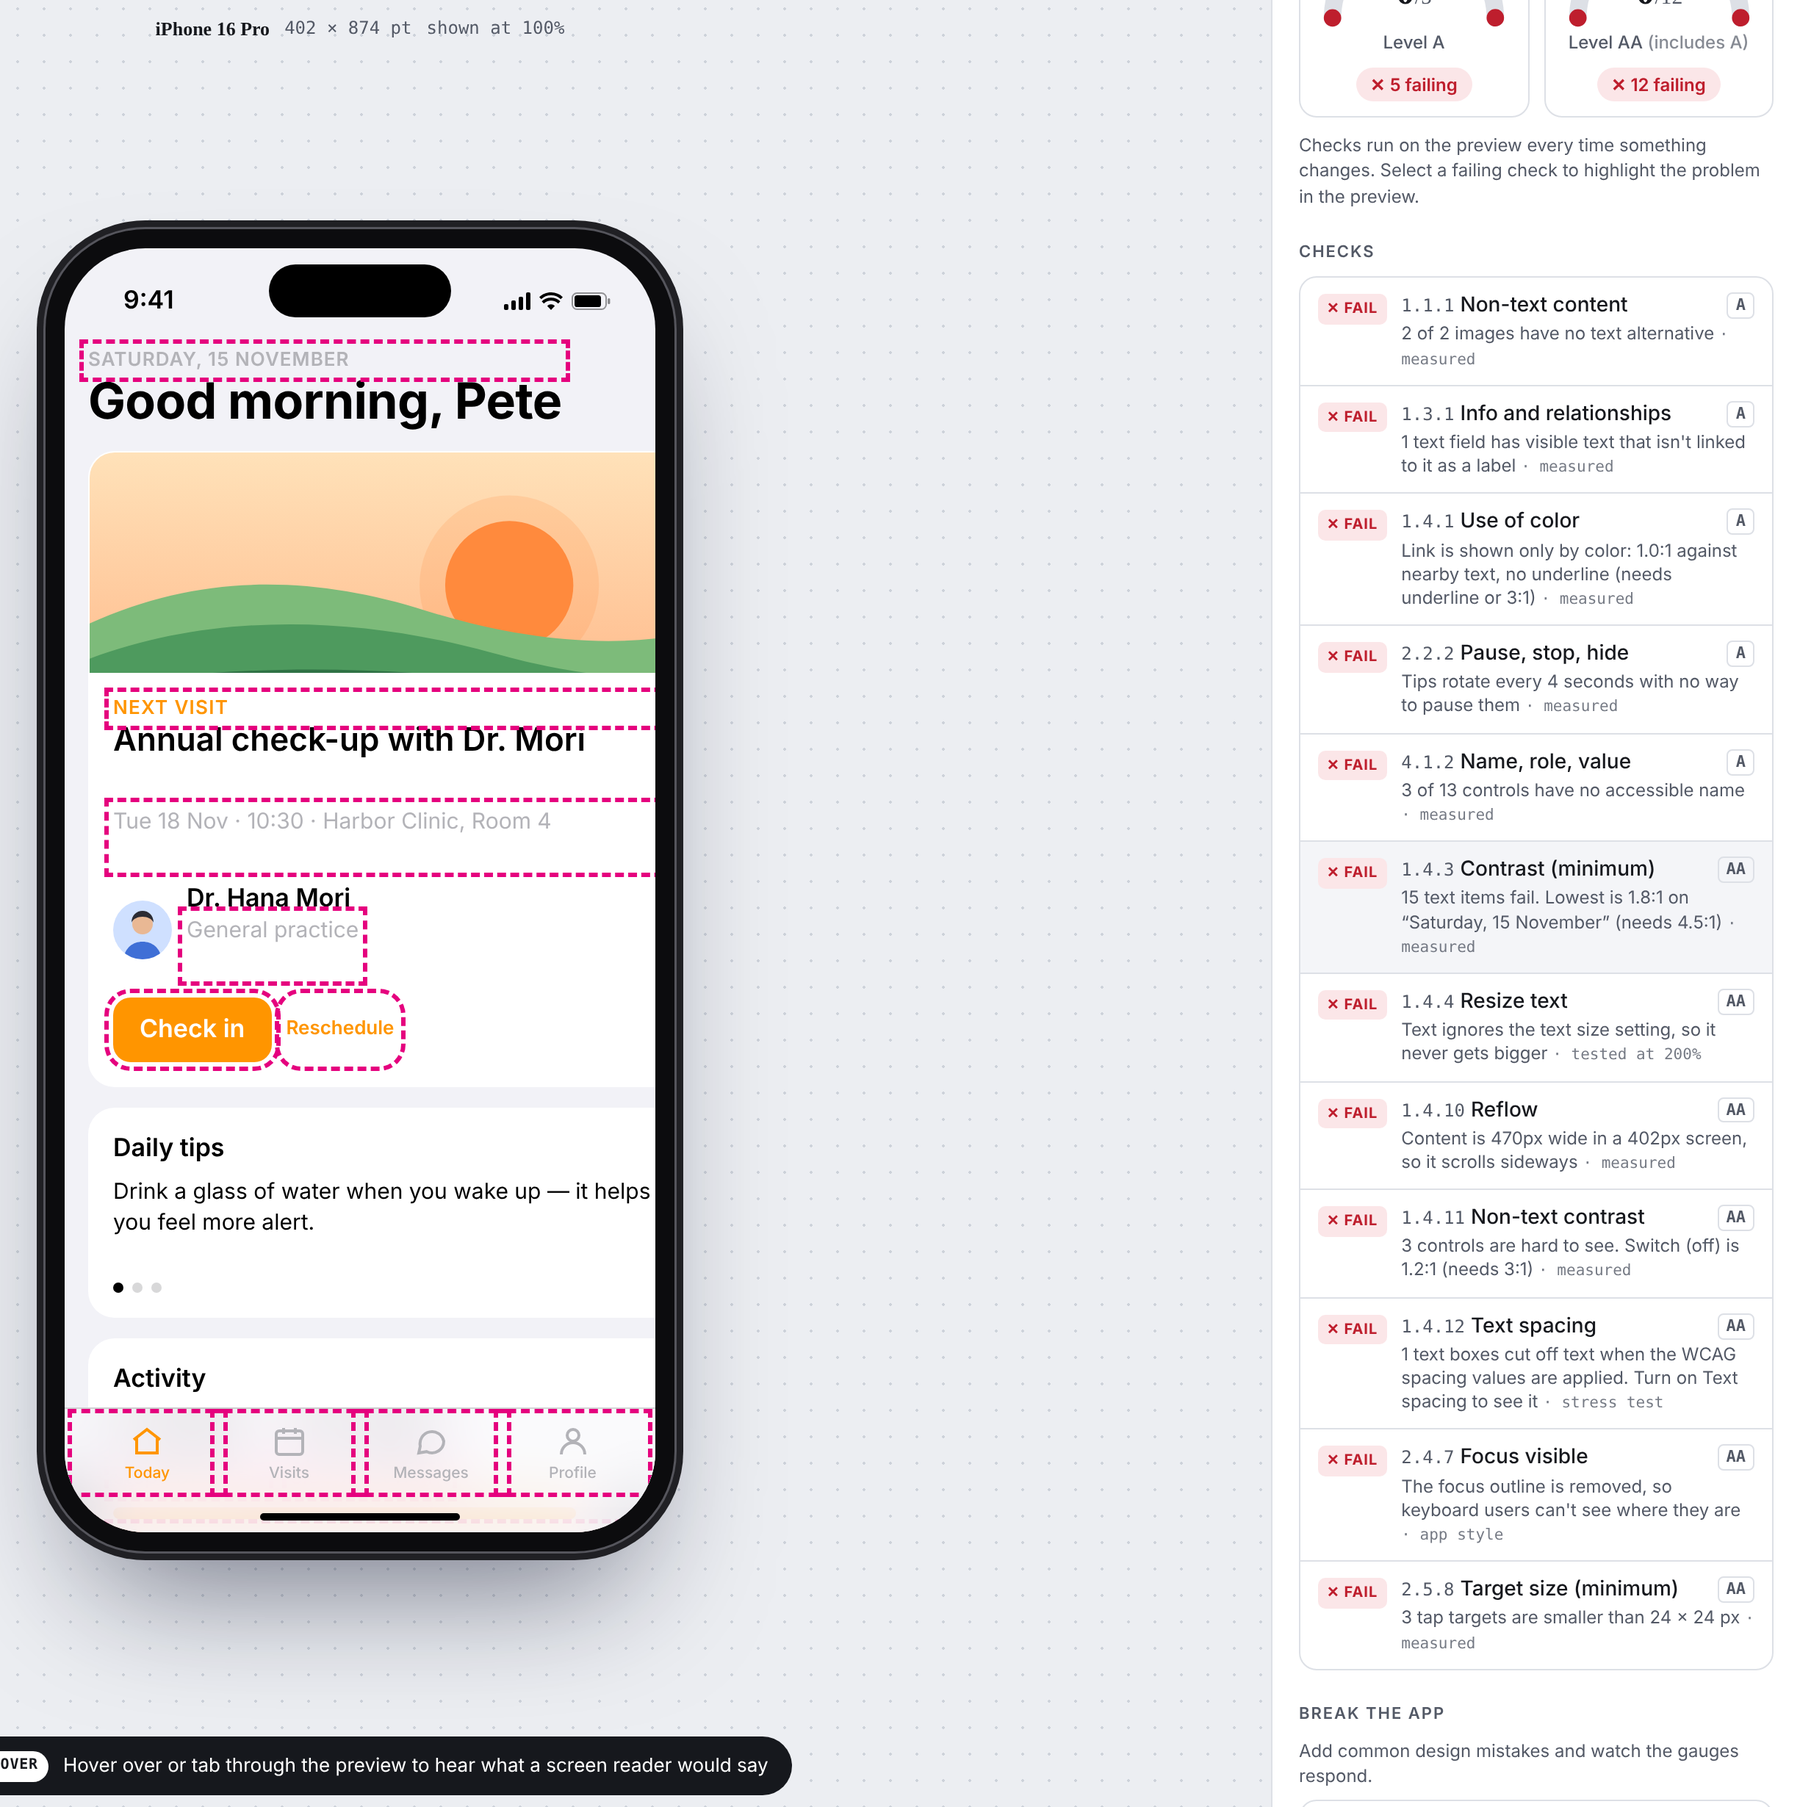
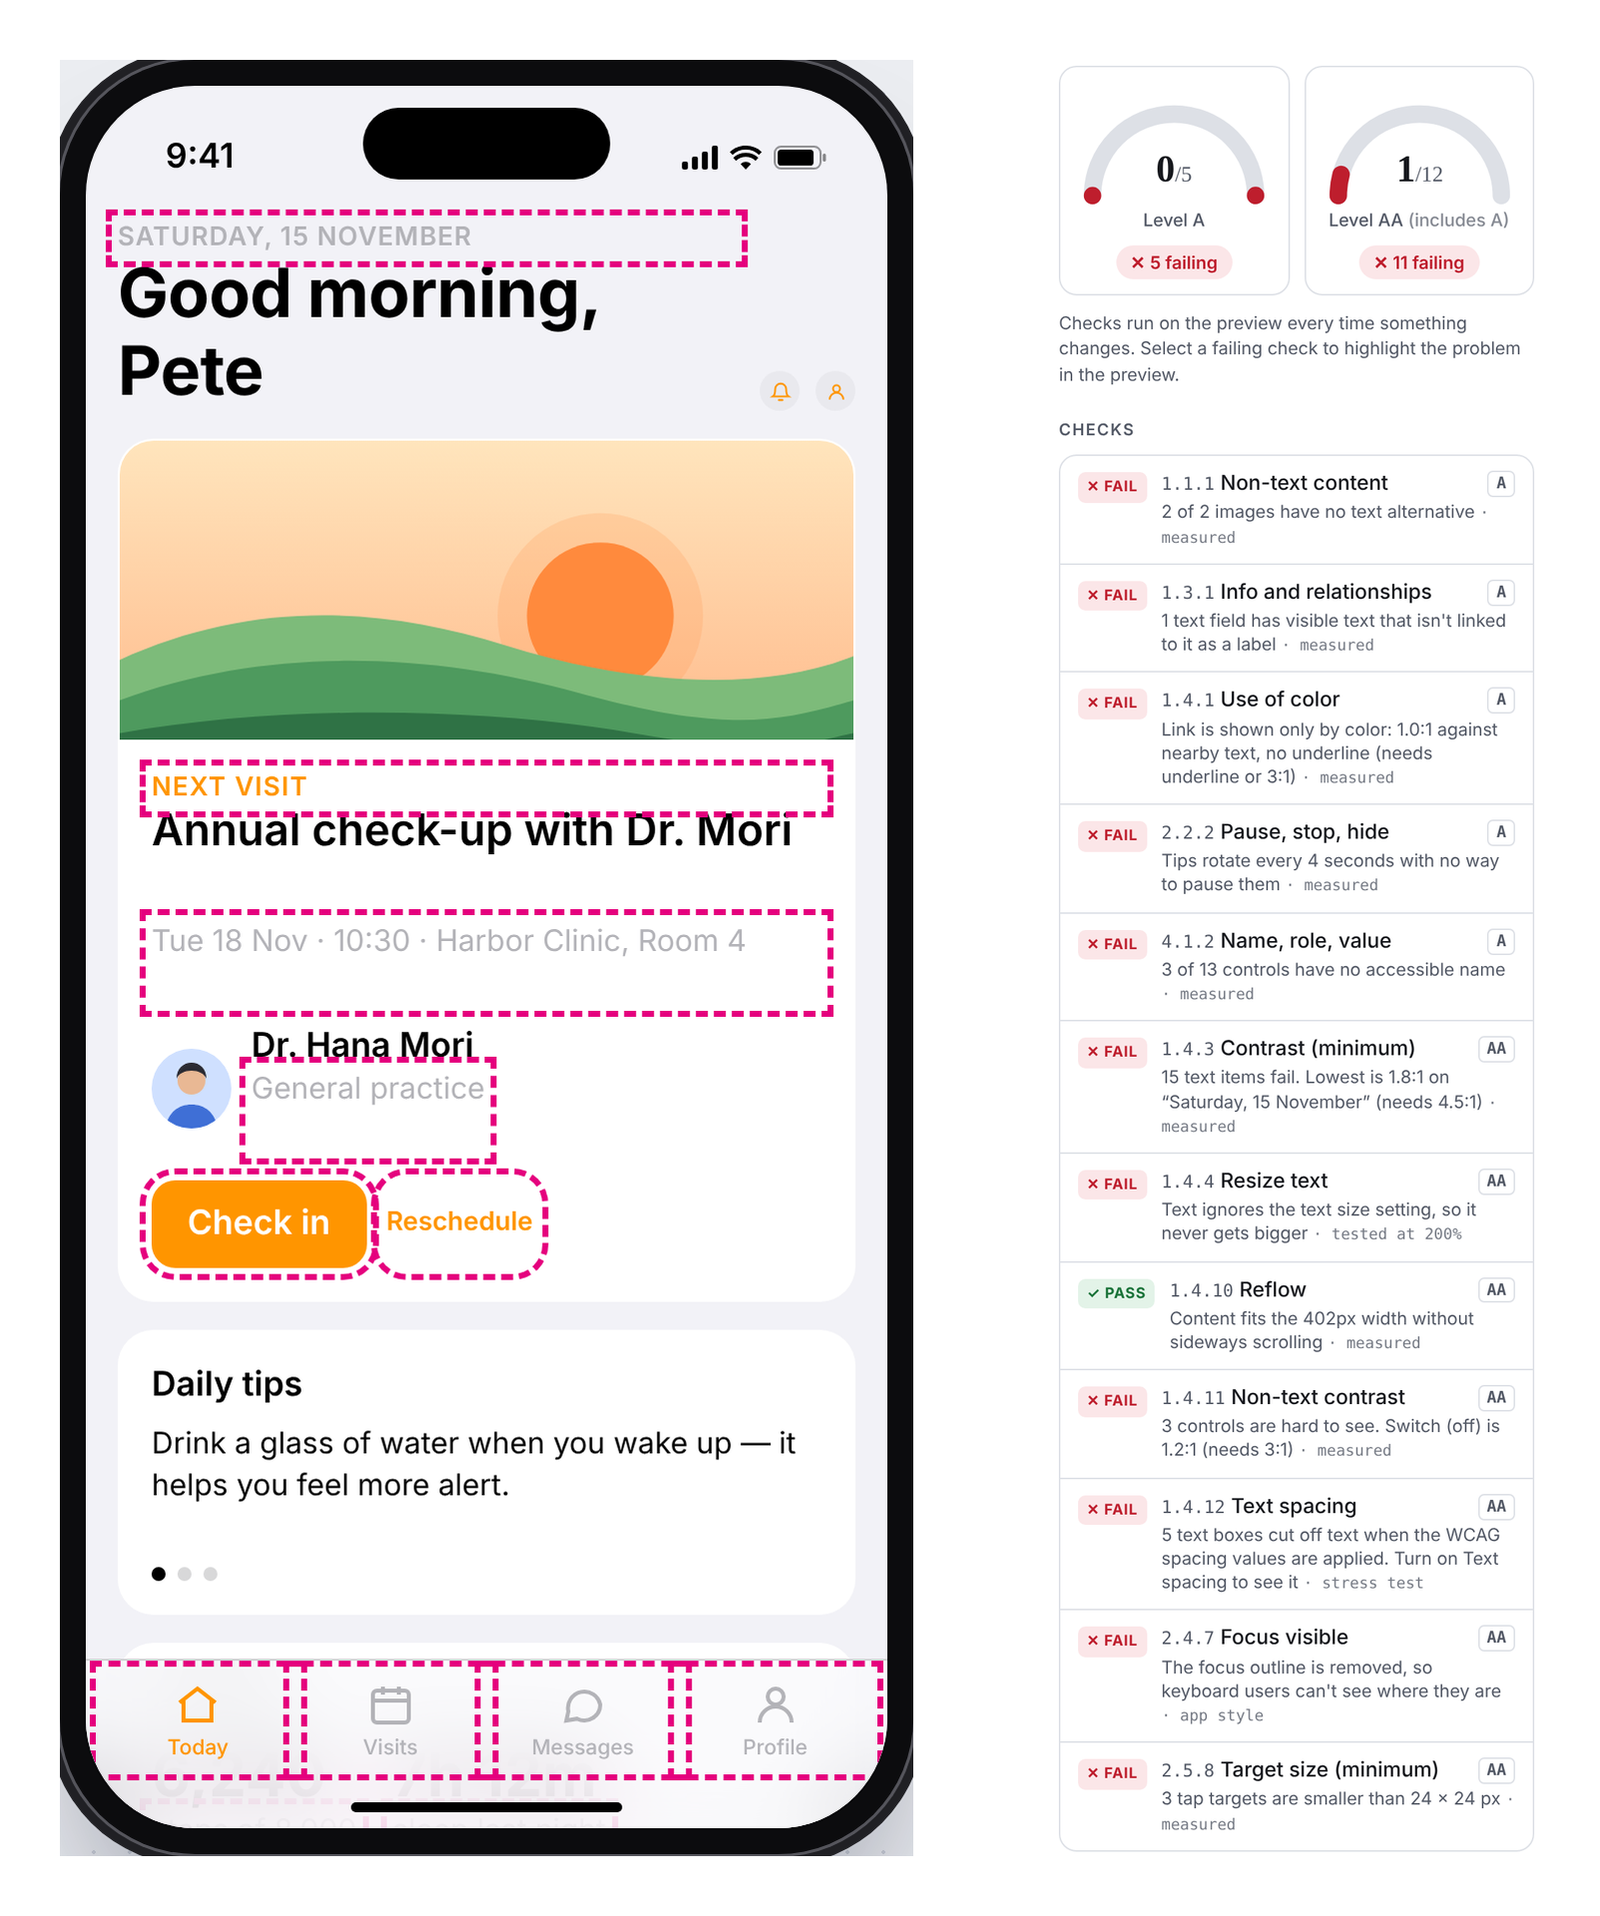
Rebalance Accessibility Lab case study images
Replaces the cropped use-case screenshot with all four platforms side by
side, adds a dark-mode device row for section 01, retakes the checks image
with the device and checks panel side by side, and shows device rows at
full page width.

Claude-Session: https://claude.ai/code/session_01FS8o7odM4Az6xAHTEAoaXF

diff --git a/accessibility-lab/accessibility-lab.html b/accessibility-lab/accessibility-lab.html
@@ -61,8 +61,8 @@
 
     <p>These became the three parts of the layout: accessibility settings on the left, a live device preview in the middle, and the WCAG gauges and checks on the right, all updating together.</p>
 </div>
-<div class="body-img">
-<img class="screen" src="ex-usecase.png" alt="The lab during Rosa's use case: step 2 of 4, Turns on Larger Text, with the iPhone preview at AX2 text size and all WCAG checks passing">
+<div class="body-img full">
+<img class="wide" src="ex-devices.png" alt="The Lumen app on a desktop browser, iPad, iPhone and Apple Watch, side by side">
 </div>
 
 <div>
@@ -72,8 +72,8 @@
 
 <p>Accessibility problems look different on every screen, so the preview isn't a static mockup. Lumen is a small, working health app built to adapt like a real product: a sidebar on iPad and desktop, a tab bar on iPhone, and a focused set of cards on Apple Watch. Switching devices keeps every setting in place, which makes it easy to see that a layout can pass on iPad and fail on iPhone.</p>
 
-<div class="body-img">
-<img class="wide" src="ex-devices.png" alt="The Lumen app on a desktop browser, iPad, iPhone and Apple Watch">
+<div class="body-img full">
+<img class="wide" src="ex-devices-dark.png" alt="The same four devices in dark mode: settings carry across every device">
 </div>
 
         <h4>02. Mirror real system settings and apply them instantly</h4>
@@ -89,7 +89,7 @@
 <p>The gauges aren't a checklist of which switches are on. They're driven by 12 checks that run on the live preview every time something changes: the contrast of every piece of text, the size of every tap target, whether the content scrolls sideways at the current width, and whether every image and control has a name a screen reader can announce. Two stress tests run invisibly in the background, enlarging text to 200% and applying the WCAG spacing values, to catch text that would get cut off. Each check shows its measured value, and selecting a failing check outlines the exact elements causing it in the preview.</p>
 
 <div class="body-img">
-<img class="screen" src="ex-checks.png" alt="The app with every design mistake turned on: both gauges failing, and the Contrast check selected so the low-contrast text is outlined in the preview">
+<img class="screen" src="ex-checks.png" alt="The app with design mistakes turned on: the gauges failing, and the low-contrast text outlined in the preview after selecting the Contrast check">
 </div>
 
         <h4>04. Make failure something you can learn from</h4>

diff --git a/accessibility-lab/case-study.css b/accessibility-lab/case-study.css
@@ -247,3 +247,5 @@ footer {
 .body-img .screen { width: 100%; border: 1px solid #E6E6E6; border-radius: 8px; padding: 0; margin: 4% 0; }
 .body-img .caption { font-size: .85em; color: #555; margin-top: -2%; }
 img { max-width: 100%; }
+.body-img.full { width: 100%; }
+.body-img.full img { padding: 3% 0; }
